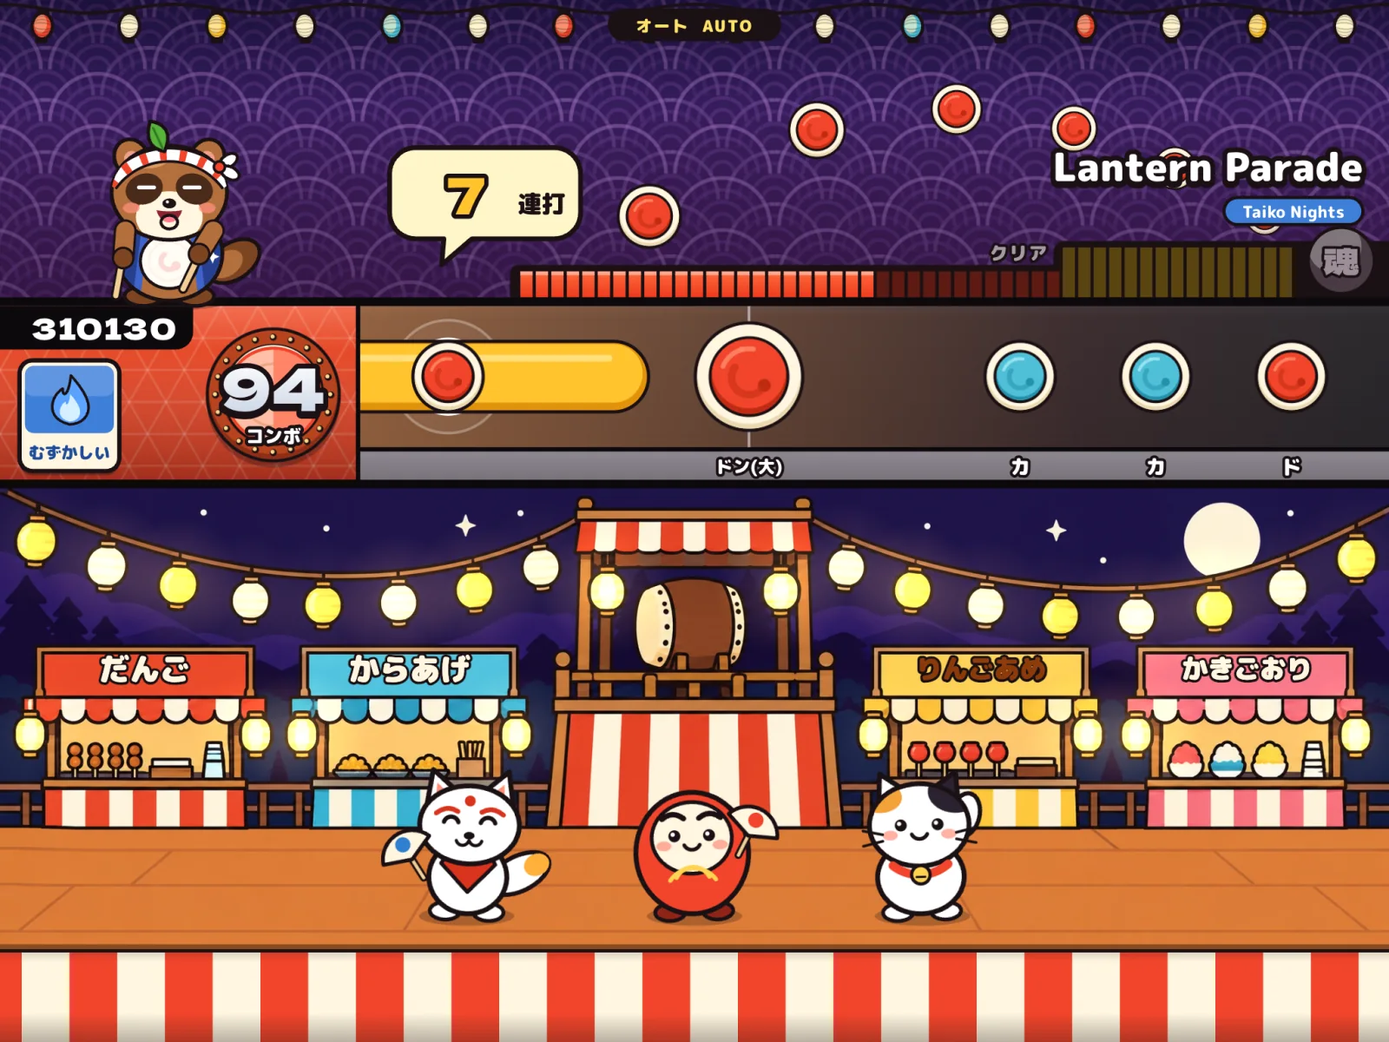
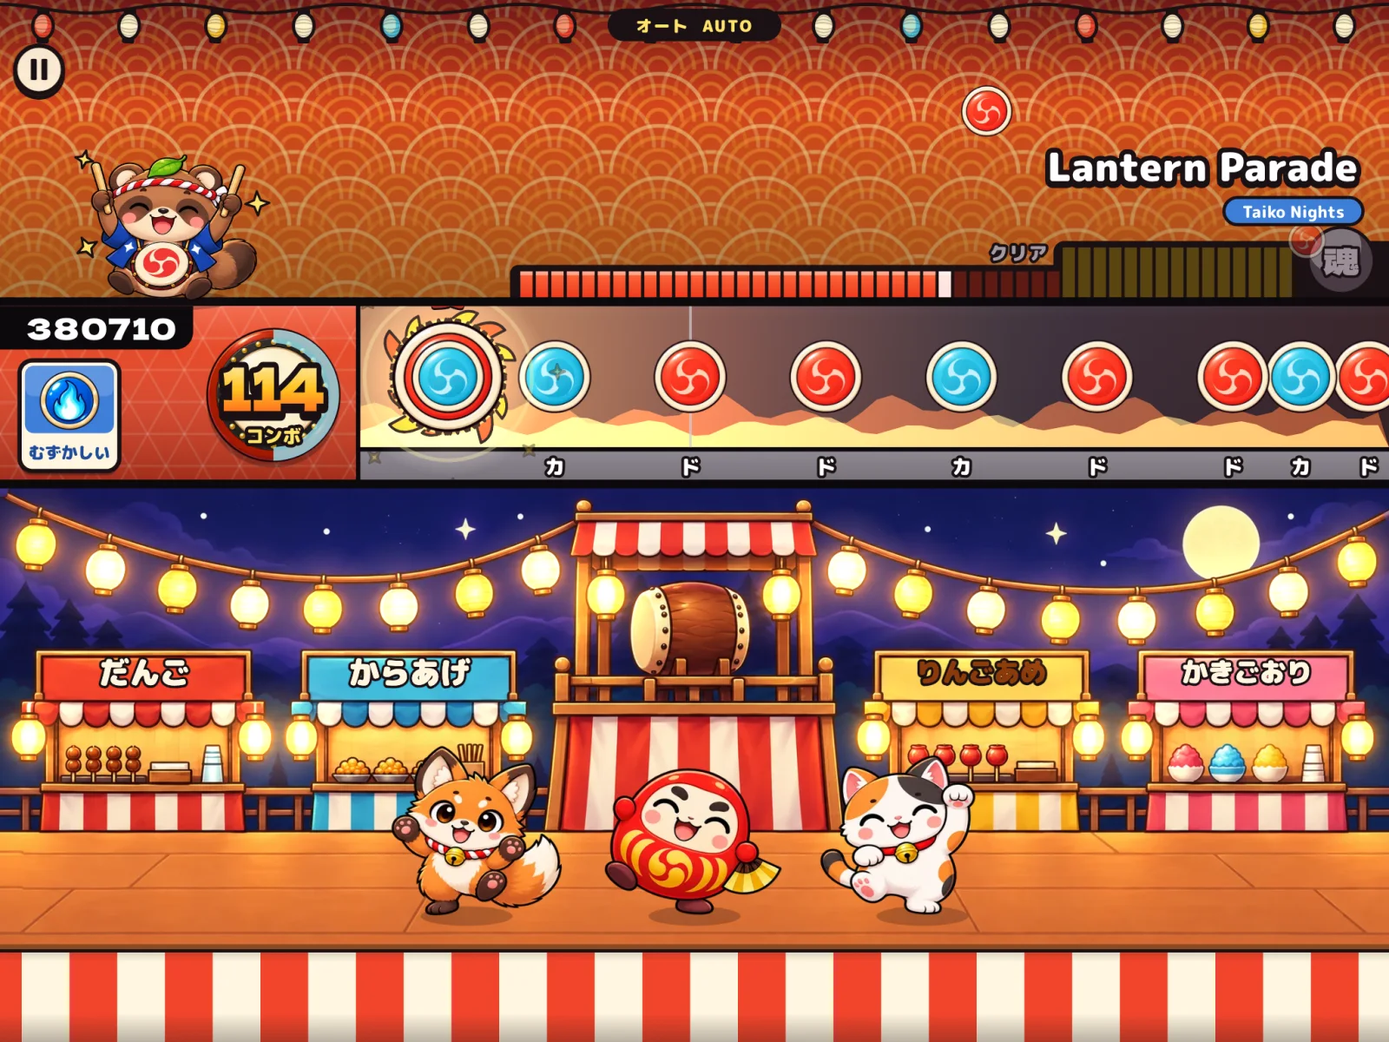
docs: how the artwork was made, and playing by touch
Replaces the model sheet with one drawn from the painted sprites, retakes the
screenshots, and records what was checked in Chromium and WebKit.

diff --git a/docs/art/README.md b/docs/art/README.md
@@ -1,61 +1,107 @@
 # Artwork
 
-Everything in Taiko Nights is original. Notes, the mascot, the dancers, the HUD and
-all effects are drawn in code (`src/game/art/`). Two background plates are painted
-bitmaps in `public/art/`.
+Everything in Taiko Nights is original. The characters, notes, drum, emblems, crowns
+and backgrounds are painted pictures, made for this game with the Codex CLI. Effects
+that move with the music (fire, fireworks, the soul gauge, judgement words) are
+drawn in code.
+
+![Every painted sprite, as the game draws them](model-sheet.webp)
+
+The sheet above is drawn by the game itself (`/?gallery=sheet` in development), so
+it always shows what players see.
 
 ## Yoru, the mascot
 
-`yoru-model-sheet.png` is the reference for the character. It is rendered by the
-game itself (`/?gallery=sheet` in development), so the sheet and the in-game sprite
-can never drift apart. Any new artwork that shows Yoru must match it:
+Yoru is a festival tanuki cub who drums on a drum strapped to its belly. Any new
+picture of Yoru must match `tools/art/sheets/yoru-canonical.webp`:
 
-- round brown tanuki with dark brown eye patches, cream muzzle, pink cheeks
-- one green leaf on the head
-- twisted red and white headband, white bow on the character's left with a red centre
+- big round head, about half the total height; round body; short limbs; small oval feet
+- chestnut fur, darker eye-mask patches, large dark eyes, cream muzzle and inner ears,
+  small black nose, rosy cheeks, round ears
+- exactly one green leaf on the head
+- twisted red and white rope headband, white bow with a red knot on the viewer's right
 - open indigo happi coat with one white four-point star on each side
-- cream belly drum skin with a red swirl crest
-- two plain wooden drumsticks, brown tail with a darker tip
-- big head, short limbs, no other clothing or accessories
+- cream belly drum with a red three-armed swirl crest
+- exactly two plain wooden drumsticks
+- fluffy brown tail with a darker tip, at the viewer's right
+- no other clothing or props
 
-## Painted plates
+Yoru is not symmetrical (bow and tail are on one side), so a pose is never mirrored
+to make its opposite. Left-hand and right-hand hits are separate paintings.
 
-The prompts below are recorded with the mascot's current name, Yoru (夜, night).
+## How the pictures are made
 
-Both were generated with the Codex `imagegen` skill, with the model sheet attached as
-the style and character reference, then checked by eye against the list above.
+The method is the one Codex's `hatch-pet` skill uses for animated pets, adapted to a
+game, with its `imagegen` skill doing the painting:
 
-| File | Used for | Source size |
-| --- | --- | --- |
-| `public/art/festival.webp` | lower half of the play screen and results | 2172 x 724 |
-| `public/art/title.webp` | title screen | 1672 x 941 |
+1. **One canonical picture first.** `yoru-canonical` was generated from a written
+   description. Every later picture of Yoru is generated with it attached, as the
+   only authority on what Yoru looks like.
+2. **Poses are generated together, on sheets.** A sheet holds six poses on a 3 by 2
+   grid. A layout guide (slots, safe area, ground line) is attached so the poses are
+   spaced evenly. Generating poses side by side is what keeps the character the same
+   size and style from pose to pose. Each sheet of Yoru opens with the canonical pose
+   again, which is how the sheets are matched to one another.
+3. **Generated pixels are never redrawn.** `tools/art/cut.py` separates each pose from
+   the transparent background, measures it, finds its anchor (the point between the
+   feet) and packs the poses into one atlas per subject.
+4. **Every result is checked by eye** on a contact sheet (`tools/art/contact.py`)
+   with all poses on a common anchor, then in the game.
 
-Stall sign lettering and lantern glow are added in code on top of the festival plate
-(`src/game/art/scenery.js`), so the plate itself carries no text. If a plate fails to
-load, the code-drawn festival in the same file is used instead.
-
-### Prompt: festival plate
-
-```text
-Use case: stylized-concept. Create festival-backdrop.png, a 3:1 landscape bitmap for the original game Taiko Nights.
-Input image: the Yoru model sheet is a STYLE REFERENCE ONLY. Match its thick uniform #1a1014 outlines, rounded shapes and perfectly flat solid-color cartoon fills. Do not reproduce its characters or lettering.
-Draw an EMPTY Japanese summer-night festival as a straight-on, flat stage set. Upper 25%: solid indigo night sky, sparse stars, full moon at upper right, dark distant hills and pine silhouettes. Middle 50%: exactly FOUR simple food stalls with striped awnings, two on either side of a wooden yagura at the exact horizontal centre. Each stall has a completely blank colored signboard and a few simple food shapes. The yagura has red-and-white curtains and a large taiko drum on its upper platform. Cream and gold paper lanterns hang in strings from the tower toward both upper corners.
-Lower 25%: completely empty warm orange plaza, one solid flat #e0843e fill with only a few simple paving seams. Nothing stands in this quarter. Keep all standalone objects entirely inside the frame horizontally, with small side margins.
-Palette: vermilion #f2452b, cyan #4fc0d8, gold #ffd34f, cream #fff6e0, indigo #130d33, plum #35205f, orange #e0843e, brown #b36f3c.
-Targeted style correction: make this as simple and graphic as the reference sheet. Use thick dark outlines and flat color regions throughout; at most one hard-edged shade and one hard-edged highlight per object. No gradients, glows, grain, textures, brushwork, realistic lighting or 3D. Convey warm lantern light using solid cream fills. Cheerful, rounded and friendly.
-Absolutely NO people, animals, characters, mascots, faces or anthropomorphic objects. NO text, letters, numbers, kana, kanji, logos or watermark anywhere. All signboards must be blank. No existing game, anime or brand imagery. Output only the finished backdrop.
-
+```bash
+tools/art/generate.sh yoru-play tools/art/sheets/yoru-canonical.webp guide-3x2.png
 ```
 
-### Prompt: title plate
-
-```text
-Use case: illustration-story. Generate title-art.png, a single 16:9 landscape title-screen illustration for the original game Taiko Nights.
-Input image: Yoru's original character model sheet, the ONLY authoritative character and style reference. Reproduce the HAPPY pose in the middle of its top row extremely faithfully: same face, mouth, big head, squat torso, short capsule arms, tiny oval feet, coat and tail. Do not reproduce the sheet's words or other characters.
-Scene: Yoru joyfully plays a large separate taiko drum on a wooden stand, mid-swing, at a summer night festival. Yoru and the drum occupy the lower-right two thirds; the drum stands immediately to Yoru's viewer-left. One short arm holds a stick near the drumhead, the other short arm holds its stick raised. Full Yoru, sticks, tail, drum and stand in frame. Upper-left third is calm open indigo sky reserved for a future logo. Lantern strings across the top. Three simple fireworks at upper middle/right. Simple distant blank festival stalls and orange ground.
-Critical corrections: keep the arms as SHORT as in the reference HAPPY pose, approximately one quarter of the head width from shoulder to paw. Match the happy mouth exactly: dark burgundy open smile, pink ring along its bottom, with a small CREAM OVAL INSIDE that pink ring. The cream oval at the bottom of the mouth must be clearly visible. Do not substitute a conventional pink tongue. Follow the reference's facial proportions and clean flat rendering.
-All mandatory invariants: round brown tanuki, dark brown eye-mask patches, cream muzzle, small black nose, open smiling mouth, pink cheeks, ONE green leaf atop the head; twisted red-and-white striped headband with WHITE bow on character's LEFT (viewer's RIGHT) and RED round knot centre; open-front indigo happi coat with ONE white FOUR-POINT star on EACH side; cream belly drum skin with the reference's RED SWIRL crest; exactly TWO plain wooden drumsticks, one per paw; brown tail with darker tip; big head, short limbs. No extra clothing or accessories. Keep both stars, belly crest and tail clearly visible.
-House style: exactly the model sheet's flat vector cartoon, very thick uniform dark #1a1014 outlines, rounded shapes, flat fills with at most one simple hard-edged shade and one highlight. No painted shading, gradients, texture, airbrush glow or 3D. Palette: vermilion #f2452b, cyan #4fc0d8, gold #ffd34f, cream #fff6e0, indigo #130d33, plum #35205f, orange #e0843e, fur brown #b36f3c. Cheerful warm lantern colors and cool night sky.
-NO text, letters, numbers, kana, kanji, logos or watermark. No other people, animals, characters or faces. No existing game, anime or brand imagery.
-
+```bash
+uv run --with pillow --with numpy --with scipy python tools/art/cut.py tools/art/atlases.json
 ```
+
+```bash
+uv run --with pillow python tools/art/contact.py public/art/sprites/yoru.json contact.png
+```
+
+The first command needs the Codex CLI with its `imagegen` and `hatch-pet` skills. It
+works in a scratch folder and overwrites nothing. Look at the result, and if it is
+right, save it into `tools/art/sheets` as WebP at quality 95 with full-quality transparency.
+
+Two things learned the hard way:
+
+- **Measure transparency, do not look for it.** Generated sheets have a real alpha
+  channel but keep leftover colour underneath the transparent pixels. Some viewers
+  show that colour, and the sheet looks as if it had a murky background. It does not.
+- **A picture that holds its subject in one half is easier to lay out.** The first
+  title picture had its drum under the logo. The prompt now says which half of the
+  picture must stay empty.
+
+## What is where
+
+| In the game | Atlas or picture | Generated as | Prompt |
+| --- | --- | --- | --- |
+| Yoru: idle, blink, don and ka with either hand | `sprites/yoru` | `yoru-play` | `prompts/yoru-play.md` |
+| Yoru: dance, jump, oops, puff | `sprites/yoru` | `yoru-feel` | `prompts/yoru-feel.md` |
+| Yoru: cheer, sad, wave | `sprites/yoru` | `yoru-results` | `prompts/yoru-results.md` |
+| Daruma, fox, lucky cat: two dance poses each | `sprites/friends` | `friends-1` | `prompts/friends-1.md` |
+| Lantern, rice dumplings: two dance poses each | `sprites/friends` | `friends-2` | `prompts/friends-2.md` |
+| Don, ka, drumroll and balloon notes; the balloon | `sprites/notes` | `notes` | `prompts/notes.md` |
+| Difficulty emblems and crowns | `sprites/hud` | `icons` | `prompts/icons.md` |
+| The drum: in the panel, and under your fingers on a touch screen | `drum.webp` | `drum` | `prompts/drum.md` |
+| Title screen | `title.webp` | `title-art` | `prompts/title-art.md` |
+| Festival behind the dancers, and on the results screen | `festival.webp` | `festival-backdrop` | `prompts/festival.md` |
+| Behind the menus | `menu.webp` | `menu-backdrop` | `prompts/menu.md` |
+
+Atlases and pictures are in `public/art`; sheets and prompts are in `tools/art`.
+
+## Rules
+
+- **Original work only.** No character, sprite, logo, sound or chart from any
+  existing game, and nothing drawn to resemble one. Notes have a crest, never a face.
+- **No writing in a picture.** Stall signs, score stamps and every other word are
+  set in code, so they stay sharp and can be translated.
+- **The drum is painted from straight above.** The touch drum tilts it by drawing it
+  wider than tall, which keeps the hit areas exact: the skin is 69% of the drum's
+  width, measured on the painting (`SKIN` in `src/game/touchDrum.js`).
+- **The festival keeps its layout.** Sign boards, lanterns, moon and plaza are
+  measured on the picture (`src/game/art/scenery.js`). A new festival picture must
+  be a repaint of the old one, or those measurements must be taken again.
+- **Everything has a stand-in.** If a picture fails to load, the figure drawn in
+  code is used. The game never waits on a picture.

diff --git a/docs/qa.md b/docs/qa.md
@@ -8,7 +8,7 @@ server and a local backend. Viewports: 1280 x 720, 844 x 390 (phone, sideways) a
 
 | Suite | Command | Result |
 | --- | --- | --- |
-| Rules engine, browser analyser, built-in songs and stage layout | `npm test` | 42 passed |
+| Rules engine, browser analyser, built-in songs, stage layout and artwork | `npm test` | 52 passed |
 | Backend analysis, charting and API | `npm run test:backend` | 29 passed |
 | Hosting worker and build output | `npm run build && npm run test:sites` | 4 passed |
 
@@ -76,6 +76,34 @@ it was published: 70 of 70.
 | Window shapes | Audit at 1280 x 720, 1024 x 768, 1366 x 1024, 1920 x 1080, 2560 x 1080 and 844 x 390: 74 screens | Pass |
 | Phone upright | 390 x 844 shows the rotate hint | Pass |
 
+## Painted artwork and the touch drum
+
+Tested on 2026-09-27 with Playwright driving headless Chromium and WebKit, against
+the development build and the static build served under `/taiko-nights/`.
+
+| Area | What was done | Result |
+| --- | --- | --- |
+| Characters | 16 poses of Yoru and 10 of the festival friends laid out on one anchor and compared by eye | Pass |
+| Characters | Same size from pose to pose: standing poses within 8% of one another, measured | Pass, automated |
+| Characters | Yoru shows the hand and the part of the drum that was played | Pass, automated |
+| Notes | Roundness of the painted notes: edge within 1.5 px of a circle of radius 127 | Pass |
+| Notes | Drumroll band matches its note; balloon trails its note | Pass |
+| Stand-ins | Every picture blocked: the game starts and plays with the figures drawn in code | Pass |
+| Festival | Sign lettering and lantern glow still sit on the repainted picture | Pass |
+| Title | Yoru whole at 16:9, 4:3, 21:9 and on a phone; logo and start button over open sky | Pass after fix 23 |
+| Menus | Painted lane behind song select; banners and text stay readable | Pass |
+| Touch drum | Hidden with mouse and keyboard at 1280 x 720 and 1920 x 1080 | Pass |
+| Touch drum | Shown on phones and tablets, sideways and upright, in both browsers | Pass |
+| Touch drum | Real touches: skin left and right, rim left and right, beside the drum, above the drum | Pass, 6 of 6 each |
+| Touch drum | Two fingers together play both hands | Pass |
+| Touch drum | Pause button is not a drum hit; the drum steps aside while paused | Pass |
+| Touch drum | Sideways it never covers the lane; upright it never runs off the screen | Pass after fix 24, automated |
+| Touch drum | Festival friends line up behind the drum instead of under it | Pass |
+| Cut-off text | Audit on title, shelf, each song, help, settings and add dialogs at seven window shapes: 98 screens | Pass |
+| Whole site | The 35 end-to-end checks of the static build, in both browsers | Pass, 70 of 70 |
+| Drawing cost | WebKit, busiest part of the hardest song at 2560 x 1440: 3.2 ms a frame | Pass |
+| Drawing cost | Chromium without a graphics card: the same with every picture blocked as with them | No change |
+
 ## Bugs found and fixed during QA
 
 1. **Stale menu state.** Two keys pressed quickly let the second act on the screen as
@@ -137,6 +165,15 @@ Causes and fixes:
 22. **Loud peaks clipped at full volume** (up to 8% over full scale). Every song is now
     levelled under a limiter.
 
+23. **Title picture had its drum under the logo and the start button.** Painted again
+    with everything in its right half; on wide windows the band that is shown is the
+    one that holds all of Yoru.
+24. **On an upright tablet the touch drum ran off the bottom of the screen,** and the
+    stage sat in the middle of the display with empty space above it. The drum is now
+    sized to the space it has, and a tablet held upright gets the stage at the top.
+25. **Generated sheets looked as if they had a murky background.** They did not: the
+    colour sits under fully transparent pixels. Transparency is now measured.
+
 The audit measures each text's letters, grows that box by half the outline width, and
 tests it against every ancestor that clips. It switches animations off while it
 measures, so a panel that is still sliding open is judged by where it ends up.
@@ -147,7 +184,13 @@ measures, so a panel that is still sliding open is judged by where it ends up.
   view. Animation was therefore judged from stepped frames (below) rather than by
   watching it in motion. Smoothness on a real display was not measured.
 - WebKit was tested through Playwright, not Safari itself. Firefox and physical
-  phones were not tested.
+  phones were not tested. The touch drum was played with emulated touches, which
+  say nothing about how it feels under real thumbs or how late a phone's screen and
+  speaker are. Use the timing offset in Settings.
+- Drawing smoothness was measured without a graphics card. On a real display it was
+  not measured.
+- The pictures were judged by one pair of eyes. Whether Yoru is appealing is for
+  players to say.
 - Sound was verified by measurement, not by ear: level, tuning of every pitched
   instrument, timing against the chart, and a spectrogram of each song. Whether the
   three songs are pleasant to listen to needs a person.

diff --git a/README.md b/README.md
@@ -12,7 +12,10 @@ and writes Easy, Medium and Hard charts, and you play it with four keys.
 | ![Drumroll with its hit counter](docs/screens/play-drumroll.webp) | ![Balloon note with hits remaining](docs/screens/play-balloon.webp) |
 
 Everything here is original: the code, the mascot (Yoru the tanuki), the festival
-friends, the notes and the three built-in songs. See [docs/art](docs/art/README.md).
+friends, the notes and the three built-in songs. The characters, notes, drum and
+backgrounds are painted; how they were made is in [docs/art](docs/art/README.md).
+
+![Every painted sprite in the game](docs/art/model-sheet.webp)
 
 ![Song select with the three built-in songs](docs/screens/song-select.webp)
 
@@ -68,11 +71,25 @@ repo and the site carry no audio files and nothing is sampled from a recording.
 | `Esc` | Pause |
 
 Menus are played like the drum: `D` `K` move, `F` `J` confirm, `Esc` goes back. Arrow
-keys and Enter work too. On a touch screen the whole display is the drum: the outer
-fifths are the rim, the middle is the face.
+keys and Enter work too.
+
+### On a phone or tablet
+
+A taiko appears on screen. Tap its skin for ドン and its rim for カッ; the left and
+right halves are your two hands, so two fingers together play a big note. Nothing is
+wasted: a tap anywhere off the skin counts as the rim. Held sideways, the drum rises
+from the bottom edge and the festival friends dance behind it. Held upright, the
+stage sits at the top and the whole drum sits under it.
+
+| Sideways | Upright |
+| --- | --- |
+| ![The drum on a phone held sideways](docs/screens/touch-sideways.webp) | ![The drum on a phone held upright](docs/screens/touch-upright.webp) |
+
+The drum only appears on devices played with fingers. With a mouse and keyboard it
+stays hidden. It can be switched off in Settings; the screen still plays.
 
 Settings hold music and drum volume, note speed, a timing offset with a tap-along
-measuring tool, auto play and the touch guide. Settings and personal records are kept
+measuring tool, auto play and the on-screen drum. Settings and personal records are kept
 in this browser's local storage.
 
 ## Your music
@@ -193,7 +210,7 @@ npm run test:backend
 npm run build && npm run test:sites
 ```
 
-42 engine, analyser, song and layout tests, 29 backend tests, 4 hosting tests. What was
+52 engine, analyser, song, layout and artwork tests, 29 backend tests, 4 hosting tests. What was
 checked in real browsers is recorded in [docs/qa.md](docs/qa.md).
 
 ## Publish
@@ -222,7 +239,8 @@ folder. `VITE_BACKEND=off` is what tells the game there is no server to look for
 | `src/game/rules.js` | Every number the rules use |
 | `src/game/renderer.js` | The play screen |
 | `src/game/layout.js` | Where everything sits, and how the stage fills a window |
-| `src/game/art/` | All drawing code: notes, mascot, dancers, HUD, effects, scenery |
+| `src/game/art/` | Everything drawn: painted sprites (`sprites.js`), effects, scenery, stand-ins |
+| `src/game/touchDrum.js`, `src/ui/TouchDrum.jsx` | The drum on touch screens: where it sits, what a touch plays |
 | `src/game/audio.js` | Song clock and synthesised drum sounds |
 | `src/game/songs/` | The built-in songs as scores, and the synthesiser that plays them |
 | `src/game/features.js` | The browser analyser: tempo, beat grid, attacks per band |
@@ -230,7 +248,8 @@ folder. `VITE_BACKEND=off` is what tells the game there is no server to look for
 | `src/library.js`, `src/songStore.js` | The song shelf, and songs saved in this browser |
 | `src/screens/`, `src/ui/` | Title, song select, play, results, dialogs |
 | `backend/src/taiko_backend/` | `analysis.py` listens, `charting.py` writes charts, `main.py` serves |
-| `public/art/` | Two painted background plates |
+| `public/art/` | Painted backgrounds, the drum, and the sprite atlases |
+| `tools/art/` | How the pictures were made: prompts, generated sheets, the cutter |
 | `src/dev/` | Development tools: sprite gallery and the cut-off text audit |
 | `docs/` | Art notes, genre references, QA record, screenshots |
 

diff --git a/AGENTS.md b/AGENTS.md
@@ -9,7 +9,8 @@ start-up instructions when you can run it.
 - `npm run dev -- --port 4173` starts the game. `/api` is proxied to the backend.
 - `npm run build:pages && npm run preview:pages` serves the public site as GitHub
   Pages will, at http://localhost:4174/taiko-nights/. It has no backend.
-- `/?gallery` shows every sprite. `/?gallery=sheet` renders the character model sheet.
+- `/?gallery` shows every sprite in motion. `/?gallery=sheet` draws every painted
+  sprite with its name: the model sheet kept in `docs/art`.
 - In development `await __auditText()` lists any text that is cut off on the screen
   you are looking at. Run it on every screen you touch, at more than one window shape.
 - In development `window.__taiko` exposes `{ renderer, game, audio }` while a song is
@@ -22,7 +23,10 @@ start-up instructions when you can run it.
    Pages workflow refuses to publish a build that contains an audio file.
 2. **All artwork and music are original.** Do not add or imitate characters, sprites,
    logos, sounds, songs or charts from any existing game or recording. A new built-in
-   song is a new composition, written as a score in `src/game/songs/`. New art that shows Yoru must match
+   song is a new composition, written as a score in `src/game/songs/`. A new picture
+   is generated as `docs/art/README.md` describes: from the canonical picture, on a
+   sheet, then cut by `tools/art/cut.py`. Generated pixels are never redrawn by hand
+   or in code, and pictures carry no writing. New art that shows Yoru must match
    `docs/art/yoru-model-sheet.png`; the checklist is in `docs/art/README.md`.
 3. **The stage fills the window. Never letterbox it.** The design grid is 1280 x 720.
    A wider window adds columns, a taller one adds rows (`stageFor` and `setStage` in
@@ -48,7 +52,14 @@ start-up instructions when you can run it.
 8. **The game must work with no server.** The public site is static. Anything new has
    to work when `VITE_BACKEND=off`, and no address may start with `/`: use
    `import.meta.env.BASE_URL` for files in `public/`.
-9. **Built-in songs are synthesised in plain JavaScript,** not with the Web Audio
+9. **Every picture has a stand-in.** Painted sprites and plates load after the first
+   frame and may fail to load. Draw through `drawSprite`, which says whether it
+   drew, and keep the code-drawn figure behind it.
+10. **The touch drum belongs to fingers.** It shows when the device's main pointer
+   is a finger, or once the screen has been touched, and never for a mouse. Every
+   touch plays something: the skin is don, everything else is ka. Its geometry lives
+   in `src/game/touchDrum.js` and is tested; the painted skin is 69% of the drum.
+11. **Built-in songs are synthesised in plain JavaScript,** not with the Web Audio
    graph, which took 10 to 28 seconds a song in Chrome and Safari. `npm test` renders
    every song and checks its level, its tuning and that it is in time with its chart.
 
@@ -70,8 +81,11 @@ GitHub Pages is published by `.github/workflows/pages.yml` from `dist/pages`.
 
 ## Design decisions on record
 
-- Notes are drum heads seen from above with a painted swirl. They have no faces.
+- Notes are drum heads seen from above with a three-armed swirl crest. They have no
+  faces.
 - The mascot is Yoru, a tanuki who drums on a belly drum. Five festival friends
-  (daruma, fox, lucky cat, paper lantern, rice cakes) join as the soul gauge fills.
+  (daruma, fox, lucky cat, paper lantern, rice dumplings) join as the soul gauge
+  fills. All are painted in one style: bold dark outline, soft cel shading.
+- Yoru shows what you played: the hand that struck, and skin or rim.
 - Score stamps are this game's own: 灯 花 月 祭 天.
 - Painted plates carry no text. Stall lettering and lantern glow are drawn in code.
